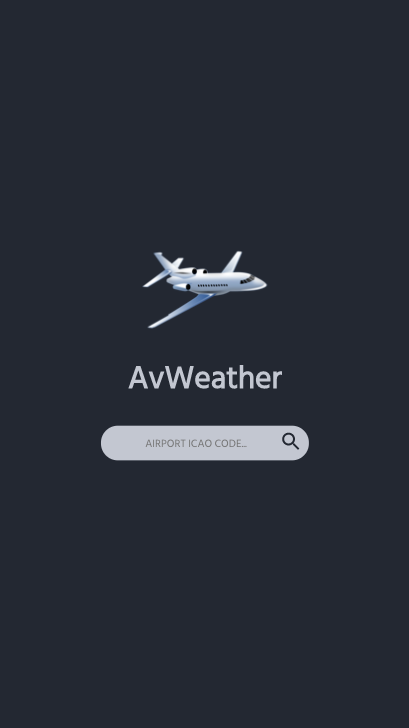
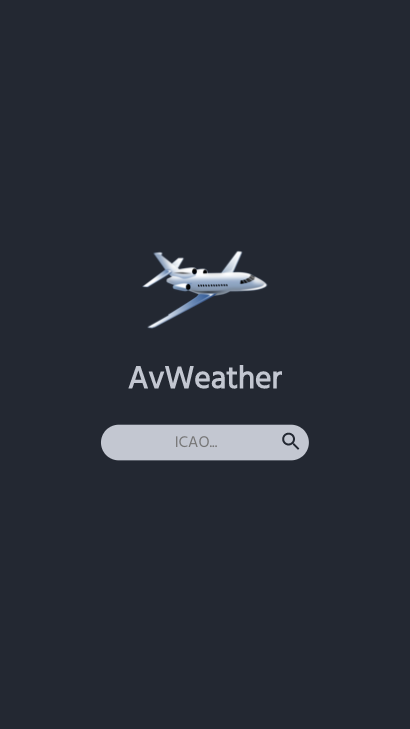
loading fixed

diff --git a/src/components/Details.js b/src/components/Details.js
@@ -17,7 +17,7 @@ const Details = () => {
 	const [metarData, setMetarData] = useState({});
 	const [tafData, setTafData] = useState({});
 	const [condition, setCondition] = useState('vmc');
-	const [fetching, setFetching] = useState({metar:true, taf:true, info:true});
+	const [loading, setLoading] = useState({metar:true, taf:true, info:true});
 
 	let history = useHistory();
 
@@ -42,7 +42,6 @@ const Details = () => {
 					elev_m: json.elevation_m
 				};
 				setStationData(newStationData);
-				setFetching({info: false});
 			})
 			.catch(error => console.log('Station fetch error: ' + error));
 	};
@@ -66,7 +65,7 @@ const Details = () => {
 					since: sincePublished
 				};
 				setMetarData(newMetarData);
-				setFetching({metar: false});
+				setLoading(false);
 			})
 			.catch(error => console.log('METAR fetch error: ' + error));
 	};
@@ -84,7 +83,6 @@ const Details = () => {
 					raw: json.raw
 				};
 				setTafData(newTafData);
-				setFetching({taf: false});
 			})
 			.catch(error => console.log('TAF fetch error: ' + error));
 	};
@@ -143,12 +141,15 @@ const Details = () => {
 		const now = new Date();
 		const toLocal = parseInt(offset/60);
 		const daypublished = parseInt(data.raw.slice(5,7));
-		const publishedHr = (parseInt(data.raw.slice(7,9))-toLocal)%12;
+		let publishedHr = (parseInt(data.raw.slice(7,9))-toLocal);
+		if (publishedHr < 0){
+			publishedHr = publishedHr%12;
+		}
 		const publishedMin = parseInt(data.raw.slice(9,11));
 		const published = new Date(now.getFullYear(), now.getMonth(), daypublished, publishedHr, publishedMin, 0, 0);
 
 		const res = timeSince(published);
-
+		
 		if (res.includes('minutes')){
 			return (`${res} ago`);
 		} else {
@@ -167,19 +168,23 @@ const Details = () => {
 	}
 	
 	const windInfo = () => {
-		if (metarData.wind_speed === 0){
-			return (`Wind calm`);
-		} else {
-			return (`${metarData.wind_speed} kts ${metarData.wind_direction}º`)
+		const direction = metarData.wind_direction === null ? 'variable' : `${metarData.wind_direction}º`
+		const speed = metarData.wind_speed === 0 ? 'Wind calm' : `${metarData.wind_speed} kts `;
+		
+		if (speed === 'Wind Calm'){
+			return speed;
+		}
+		else{
+			return speed + direction;
 		}
 	}
 
-	useEffect(() => getStationData(), []); // eslint-disable-line react-hooks/exhaustive-deps
 	useEffect(() => getMetarData(), []); // eslint-disable-line react-hooks/exhaustive-deps
+	useEffect(() => getStationData(), []); // eslint-disable-line react-hooks/exhaustive-deps
 	useEffect(() => getTafData(), []); // eslint-disable-line react-hooks/exhaustive-deps
 
 
-	if (fetching.info && fetching.metar && fetching.taf){
+	if (loading){
 		return(
 			<div className='main'>
 				<div className='home justify-center items-center small'>
@@ -212,7 +217,7 @@ const Details = () => {
 							<p className='text'> {windInfo()}</p>
 							<p className={`text condition ${condition}`}>{metarData.flight_rules}</p>
 						</div>
-					</div> {/* fin container fila arriba */}
+					</div> 
 
 					<p className='text right data-font'>
 						{metarData.raw}
@@ -220,7 +225,8 @@ const Details = () => {
 					<div className='flex-row justify-end right'>
 						<p className={`time-ago bottom ${metarData.since}`}>{metarData.since}</p>
 					</div>
-				</div>	{/* fin container METAR */}
+				</div>	
+				
 				<div className='container big self-center overflow-scroll' >	{/* container TAF */}
 					<div className='flex-row right' >
 						<p className='text bold'>TAF</p>

diff --git a/src/assets/styles/App.css b/src/assets/styles/App.css
@@ -27,22 +27,6 @@ input {
   color: #232831;
 }
 
-input::-webkit-input-placeholder {
-  font-size: 11px;
-}
-
-input:-ms-input-placeholder {
-  font-size: 11px;
-}
-
-input::-ms-input-placeholder {
-  font-size: 11px;
-}
-
-input::placeholder {
-  font-size: 11px;
-}
-
 button {
   background: transparent;
   outline: none;
@@ -129,7 +113,7 @@ iframe {
 
 .search {
   background-color: #c3c7d0;
-  height: 35px;
+  height: 36px;
   width: 210px;
   border-radius: 20px 20px 20px 20px;
   display: -webkit-box;

diff --git a/src/components/Home.js b/src/components/Home.js
@@ -40,7 +40,7 @@ const Home = () => {
 			<img src={Logo} alt='logo' />
 			<h1>AvWeather</h1>
 			<form className='search ' onChange={e => setSearch(e.target.value)} onSubmit={e => searchStation(e)}>
-				<input type='text' placeholder='Airport ICAO code...' value={search} />
+				<input type='text' placeholder='ICAO...' value={search} />
 				<button className='material-icon' type='submit'>
 					<SearchIcon className='material-icon primary'/>
 				</button>

diff --git a/src/assets/styles/App.scss b/src/assets/styles/App.scss
@@ -31,9 +31,6 @@ input{
   text-align: center;
   width: 80%;
   color: $primary-color;
-  &::placeholder{
-    font-size: 11px;
-  }
 }
 
 button{
@@ -101,7 +98,7 @@ iframe{
 
 .search{
   background-color: $grey;
-  height: 35px;
+  height: 36px;
   width: 210px;
   border-radius: 20px 20px 20px 20px;
   display: flex;
